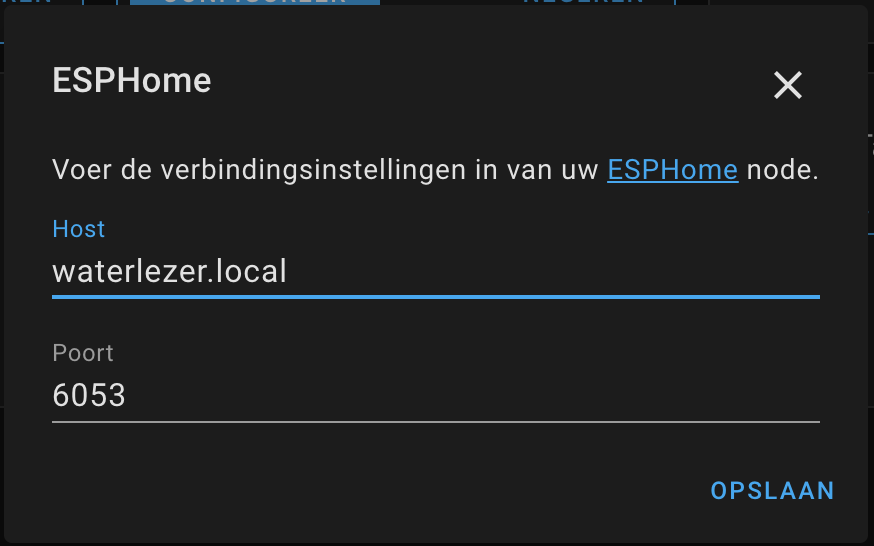
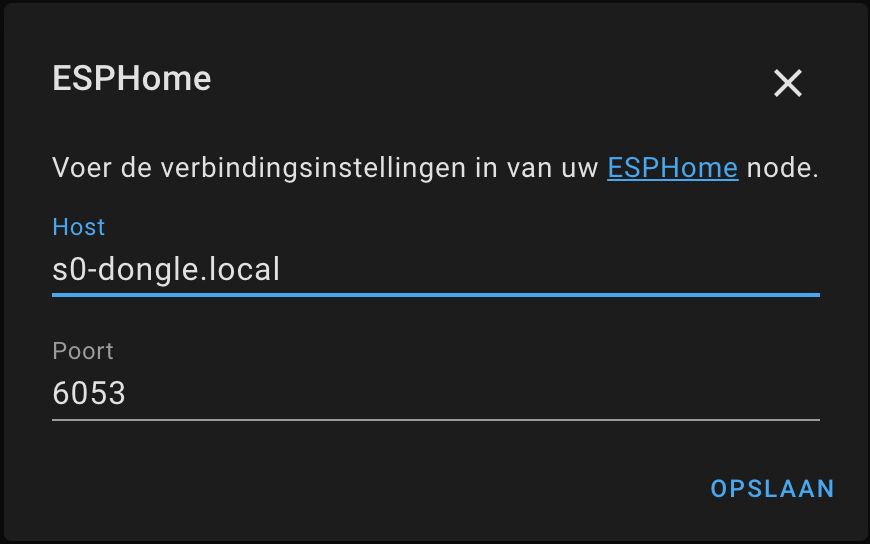
update docs

diff --git a/manuals/S0-dongle/README.md b/manuals/S0-dongle/README.md
@@ -28,14 +28,14 @@ Hieronder een plaatje hoe de dongle gekoppeld dient te worden.
 
 <img src="afb/kwh-meter.jpeg" width="40%">
 
-De draadjes uit de dongle dienen aangesloten te worden op de S0+ em S0- aansluitingen van de kWh meter. In bovenstaande plaatje zijn deze aansluiting te vinden in de rode rechthoek.
-S0+ = rode ader
-S0- = zwartte ader
+De draadjes uit de dongle dienen aangesloten te worden op de S0+ em S0- aansluitingen van de kWh meter. In bovenstaande plaatje zijn deze aansluiting te vinden in de rode rechthoek.<br>
+S0+ = rode ader<br>
+S0- = zwarte ader
  
 **3. Koppel Dongle aan uw Wifi netwerk**<br>
-Na aansluiten van sensor en adapter is het zaak om de dongle te koppelen aan uw wifinetwerk. Hiervoor bouwt de dongle een eigen Wifi hotspot op. Deze hotspot is te herkennen door de Wifinaam **s0-dongle**.
-
-<img src="afb/wifi.png" width="20%">
+Na aansluiten van sensor en adapter is het zaak om de dongle te koppelen aan uw wifinetwerk. Hiervoor bouwt de dongle een eigen Wifi hotspot op. Deze hotspot is te herkennen door de Wifinaam **s0-dongle**.<br>
+<br>
+<img src="afb/wifi.png" width="30%">
 
 Zorg dat je met je computer of mobiel toestel contact maakt met dit netwerk, door hier op te klikken. Automatisch wordt een scherm getoond waarin de WifiManager is te zien. Zie onderstaande plaatje.
 
@@ -47,7 +47,7 @@ Ook het tonen van deze popup kost tijd. Is deze er na 30 seconden nog niet dan k
 2. Druk op &quot;Save&quot;
 3. De dongle zal op nieuwe opstarten en u kunt het scherm sluiten en de computer verbinden met uw thuis netwerk.
 
-Vanaf dit moment zal de dongle te vinden zijn via: [http://so-dongle.local/](http://s0-dongle.local/)
+Vanaf dit moment zal de dongle te vinden zijn via: [http://s0-dongle.local/](http://s0-dongle.local/)
 
 **3. Configureer de dongle in Home Assistant**<br>
 Zodra de dongle verbonden is met uw netwerk zal deze in de auto discover modus zichtbaar zijn in Home Assistant.
@@ -56,7 +56,7 @@ Zodra de dongle verbonden is met uw netwerk zal deze in de auto discover modus z
 Voer onderstaande stappen uit in Home Assistant Instellingen > Apparaten & Diensten.<br>
 <img src="afb/integratie_1.png" width="40%"><br>
 <img src="afb/integratie_2.png" width="40%"><br>
-<img src="afb/integratie_3.png" width="40%"><br>
+<img src="afb/hand_4.png" width="40%"><br>
 <img src="afb/hand_5.png" width="40%"><br>
 <br>
 3.2. Handmatig toevoegen</br>
@@ -71,66 +71,27 @@ Voer onderstaande stappen uit.<br>
 <br>
 
 >**TIP**<br>
->mocht s0-dongle.local niet werken haal dan de dongel even 5 seconden uit de slimme meter of koppel de usb adapter los. Bij het opnieuw starten zal de dongle zich weer kenbaar maken.
+>mocht s0-dongle.local niet werken haal dan de dongel even 5 seconden uit de slimme meter of koppel de usb adapter los. Bij het opnieuw starten zal de dongle zich weer kenbaar maken.	
 
-**5. Opgeven beginstand**<br>
-De kWh meter wordt uitgelezen door pulsen per eenheid te tellen. Dit is in de meeste gevallen 1 pulse per Watt (1000 pulsen per kW). Voor de verwerking in Home Assistant hoeft er geen beginstand opgenomen te worden, alleen het tellen is voldoende.
-Beginstand doorgeven kan wel 
-Dit kan eenvoudig via Home Assistant door onderstaande stappen te volgen.<br>
-<br>
-a) ga in Home Assistant naar Ontwikkelhulpmiddelen > Services<br>
-b) zoek daar op "waterlezer" waardoor de service esphome.waterlezer_set_water_reading te zien is<br>
-c) vul de beginstand van de watermeter in en druk op AANROEPEN SERVICE<br>
-<br>
-Zie scherm hieronder als voorbeeld.<br>
-<img src="afb/beginstand_1.png" width="60%"><br>
-
-Als het allemaal goed is gegaan is de dongle voorzien van een startstand. Zie onderstaande voorbeeld.
-<img src="afb/beginstand_2.png" width="50%"><br>
-
-**6.Historische gegevens**<br>
-Neem onderstaande configuratie op in de configuration.yaml. En verwerk deze in de dashboards van Home Assistant na reload/herstart van HA.<br>
-
-```
-utility_meter:  
-  waterverbruik_kwartier:
-    source: sensor.watermeter_total
-    cycle: quarter-hourly
-  waterverbruik_uur:
-    source: sensor.watermeter_total
-    cycle: hourly
-  waterverbruik_dag:
-    source: sensor.watermeter_total
-    cycle: daily    
-  waterverbruik_week:
-    source: sensor.watermeter_total
-    cycle: weekly
-  waterverbruik_maand:
-    source: sensor.watermeter_total
-    cycle: monthly
-  waterverbruik_kwartaal:
-    source: sensor.watermeter_total
-    cycle: quarterly
-  waterverbruik_jaar:
-    source: sensor.watermeter_total
-    cycle: yearly          
-```
+3.3 Toevoegen aan Energy Dashboard<br>
+Ga naar Instellingen > Energie<br>
+<img src="afb/energy_1.png" width="80%"><br>
+Druk op "ADD SOLAR PRODUCTION" bij Zonnepanelen<br>
+<img src="afb/energy_2.png" width="80%"><br>
+Zoek daar **S0 Total Energy** en selecteer deze<br>
+<img src="afb/energy_3.png" width="40%"><br>
 
 **OPTIONEEL ESPhome Dashboard**</br>
 Beheer van de dongle via het ESPhome dashboard. 
 Hieronder is de module te zien.<br>
-<img src="afb/esphome_dash.png" width="50%"><br>
-
-Indien deze niet zichtbaar is kan deze toegevoegd worden door op [+ NEW DEVICE] knop te klikken rechtsonder aan. Volg dan de stappen hieronder. Voer bij name waterlezer in.<br>
-<img src="afb/esphome_dash_1.png" width="40%"><br>
-<img src="afb/esphome_dash_2.png" width="40%"><br>
+<img src="afb/esphome_dash.png" width="80%"><br>
 
 Zelf de configuratie aanpassen kan eenvoudig zie "Zelf aanpassingen maken in de configuratie".
 <br>
 
 # **Zelf aanpassingen maken in de configuratie**<br>
 In de ESPHome dashboard waarin u zelf de diverse modules kunt beheren kunt u de dongle zien, toevoegen en bewerken.
-Onder Edit kan de configuratie worden aangepast. In het bestand [waterlezer.yaml](waterlezer.yaml) kunt u de standaard configuratie zien.
+Onder Edit kan de configuratie worden aangepast. In het bestand [s0-dongle.yaml](../../s0-dongle.yaml) kunt u de standaard configuratie zien.
 
 # **Flashen**<br>
 Voor het flashen heeft u een USB - TTL adapter nodig. Op J2 (onderkant) zitten de aansluitingen voor deze interface. 
